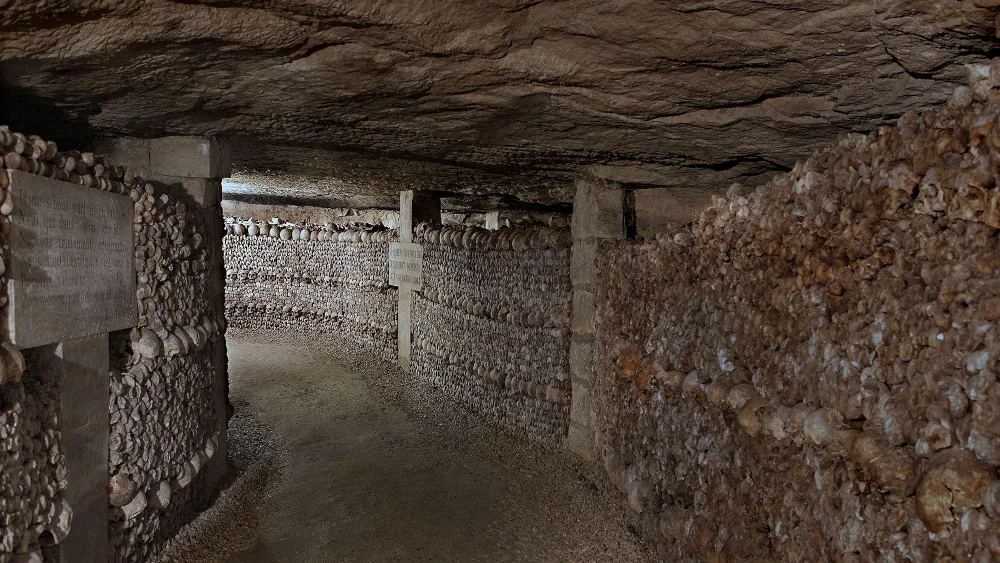
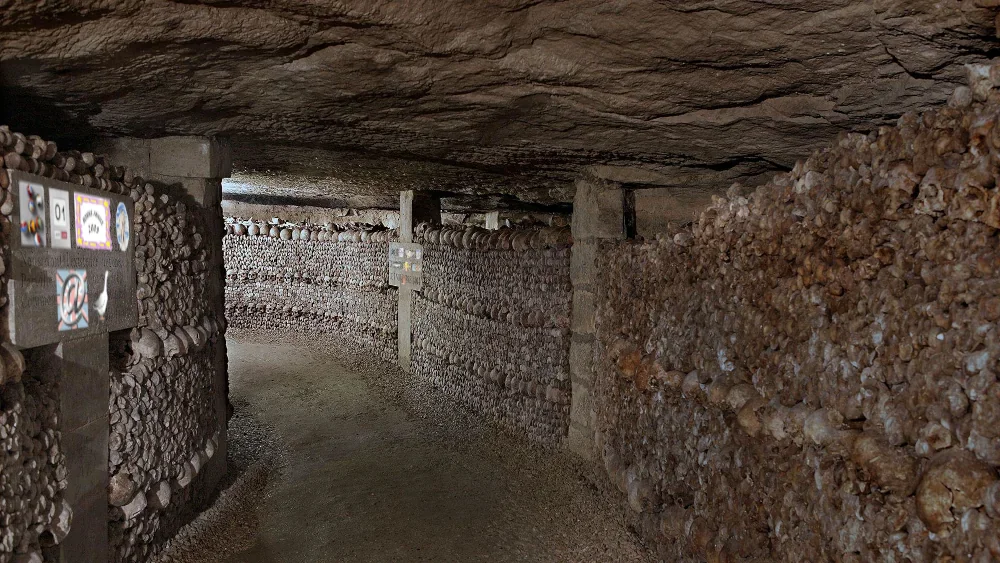
add catacombe gauche workflow

Changed region(s): [[0.0, 0.302, 0.155, 0.6039], [0.403, 0.4227, 0.434, 0.4831]]

diff --git a/src/Controller/MagieController.php b/src/Controller/MagieController.php
@@ -2,7 +2,11 @@
 
 namespace App\Controller;
 
+use App\Model\Constantes;
+use App\Model\ObjetAventure;
+use App\Service\InventaireService;
 use App\Service\SessionService;
+use Symfony\Component\Form\Extension\Core\Type\TextType;
 use Symfony\Bundle\FrameworkBundle\Controller\AbstractController;
 use Symfony\Component\Form\Extension\Core\Type\ColorType;
 use Symfony\Component\Form\Extension\Core\Type\RangeType;
@@ -99,6 +103,41 @@ final class MagieController extends AbstractController
         }
 
         return $this->render('magie/troisieme_sort.html.twig', [
+            'form' => $form,
+            'alert' => $alert,
+        ]);
+    }
+
+    #[Route('/catacombe/magie/pilier', name: 'app_magie_catacombe_stele') ]
+    public function magie_pilier(Request $request, SessionService $sessionService, InventaireService $inventaireService, #[MapQueryParameter] int $alert = 0) : Response
+    {
+        $defaultData = null;
+        $form = $this->createFormBuilder($defaultData)
+            ->add('pass0', TextType::class, ['label' => ' '])
+            ->add('save', SubmitType::class, ['label' => 'Repondre'])
+            ->getForm();
+
+        $form->handleRequest($request);
+
+        if ($form->isSubmitted() && $form->isValid()) {
+            $data = $form->getData();
+            $pass0 = $data['pass0'];
+
+            if($pass0 === '212324'  )
+            {
+                $crane = new ObjetAventure(Constantes::crane(), "C'est dorée, ça brille oooh", "Hooo! T'es une pie ?");
+                $inventaire = $sessionService->getCurrentInventaire($request->getSession());
+                $inventaireService->addOrReplace(Constantes::crane(), $crane, $inventaire);
+                $sessionService->setCurrentInventaire($request->getSession(), $inventaire);
+                return $this->redirectToRoute('app_magie_catacombe_stele', [ 'alert' => 2 ]);
+            }
+            else
+            {
+                return $this->redirectToRoute('app_magie_catacombe_stele', [ 'alert' => 1 ]);
+            }
+        }
+
+        return $this->render('magie/catacombe_pilier_magie.twig', [
             'form' => $form,
             'alert' => $alert,
         ]);

diff --git a/src/Controller/CatacombeController.php b/src/Controller/CatacombeController.php
@@ -28,4 +28,16 @@ final class CatacombeController extends AbstractController
         return $this->render('catacombe/gauche.html.twig');
     }
 
+    #[Route('/catacombe/gauche/gauche', name: 'app_catacombe_gauche_2')]
+    public function gauche2(Request $request, SessionService $sessionService) : Response
+    {
+        return $this->render('catacombe/gauche_2.html.twig');
+    }
+
+    #[Route('/catacombe/gauche/gauche/gauche', name: 'app_catacombe_gauche_3')]
+    public function gauche3(Request $request, SessionService $sessionService) : Response
+    {
+        return $this->render('catacombe/gauche_3.html.twig');
+    }
+
 }

diff --git a/src/Model/Constantes.php b/src/Model/Constantes.php
@@ -17,4 +17,8 @@ class Constantes
     public static function lunette() : string {
         return 'lunette rose';
     }
+
+    public static function crane() : string{
+        return 'crane';
+    }
 }
